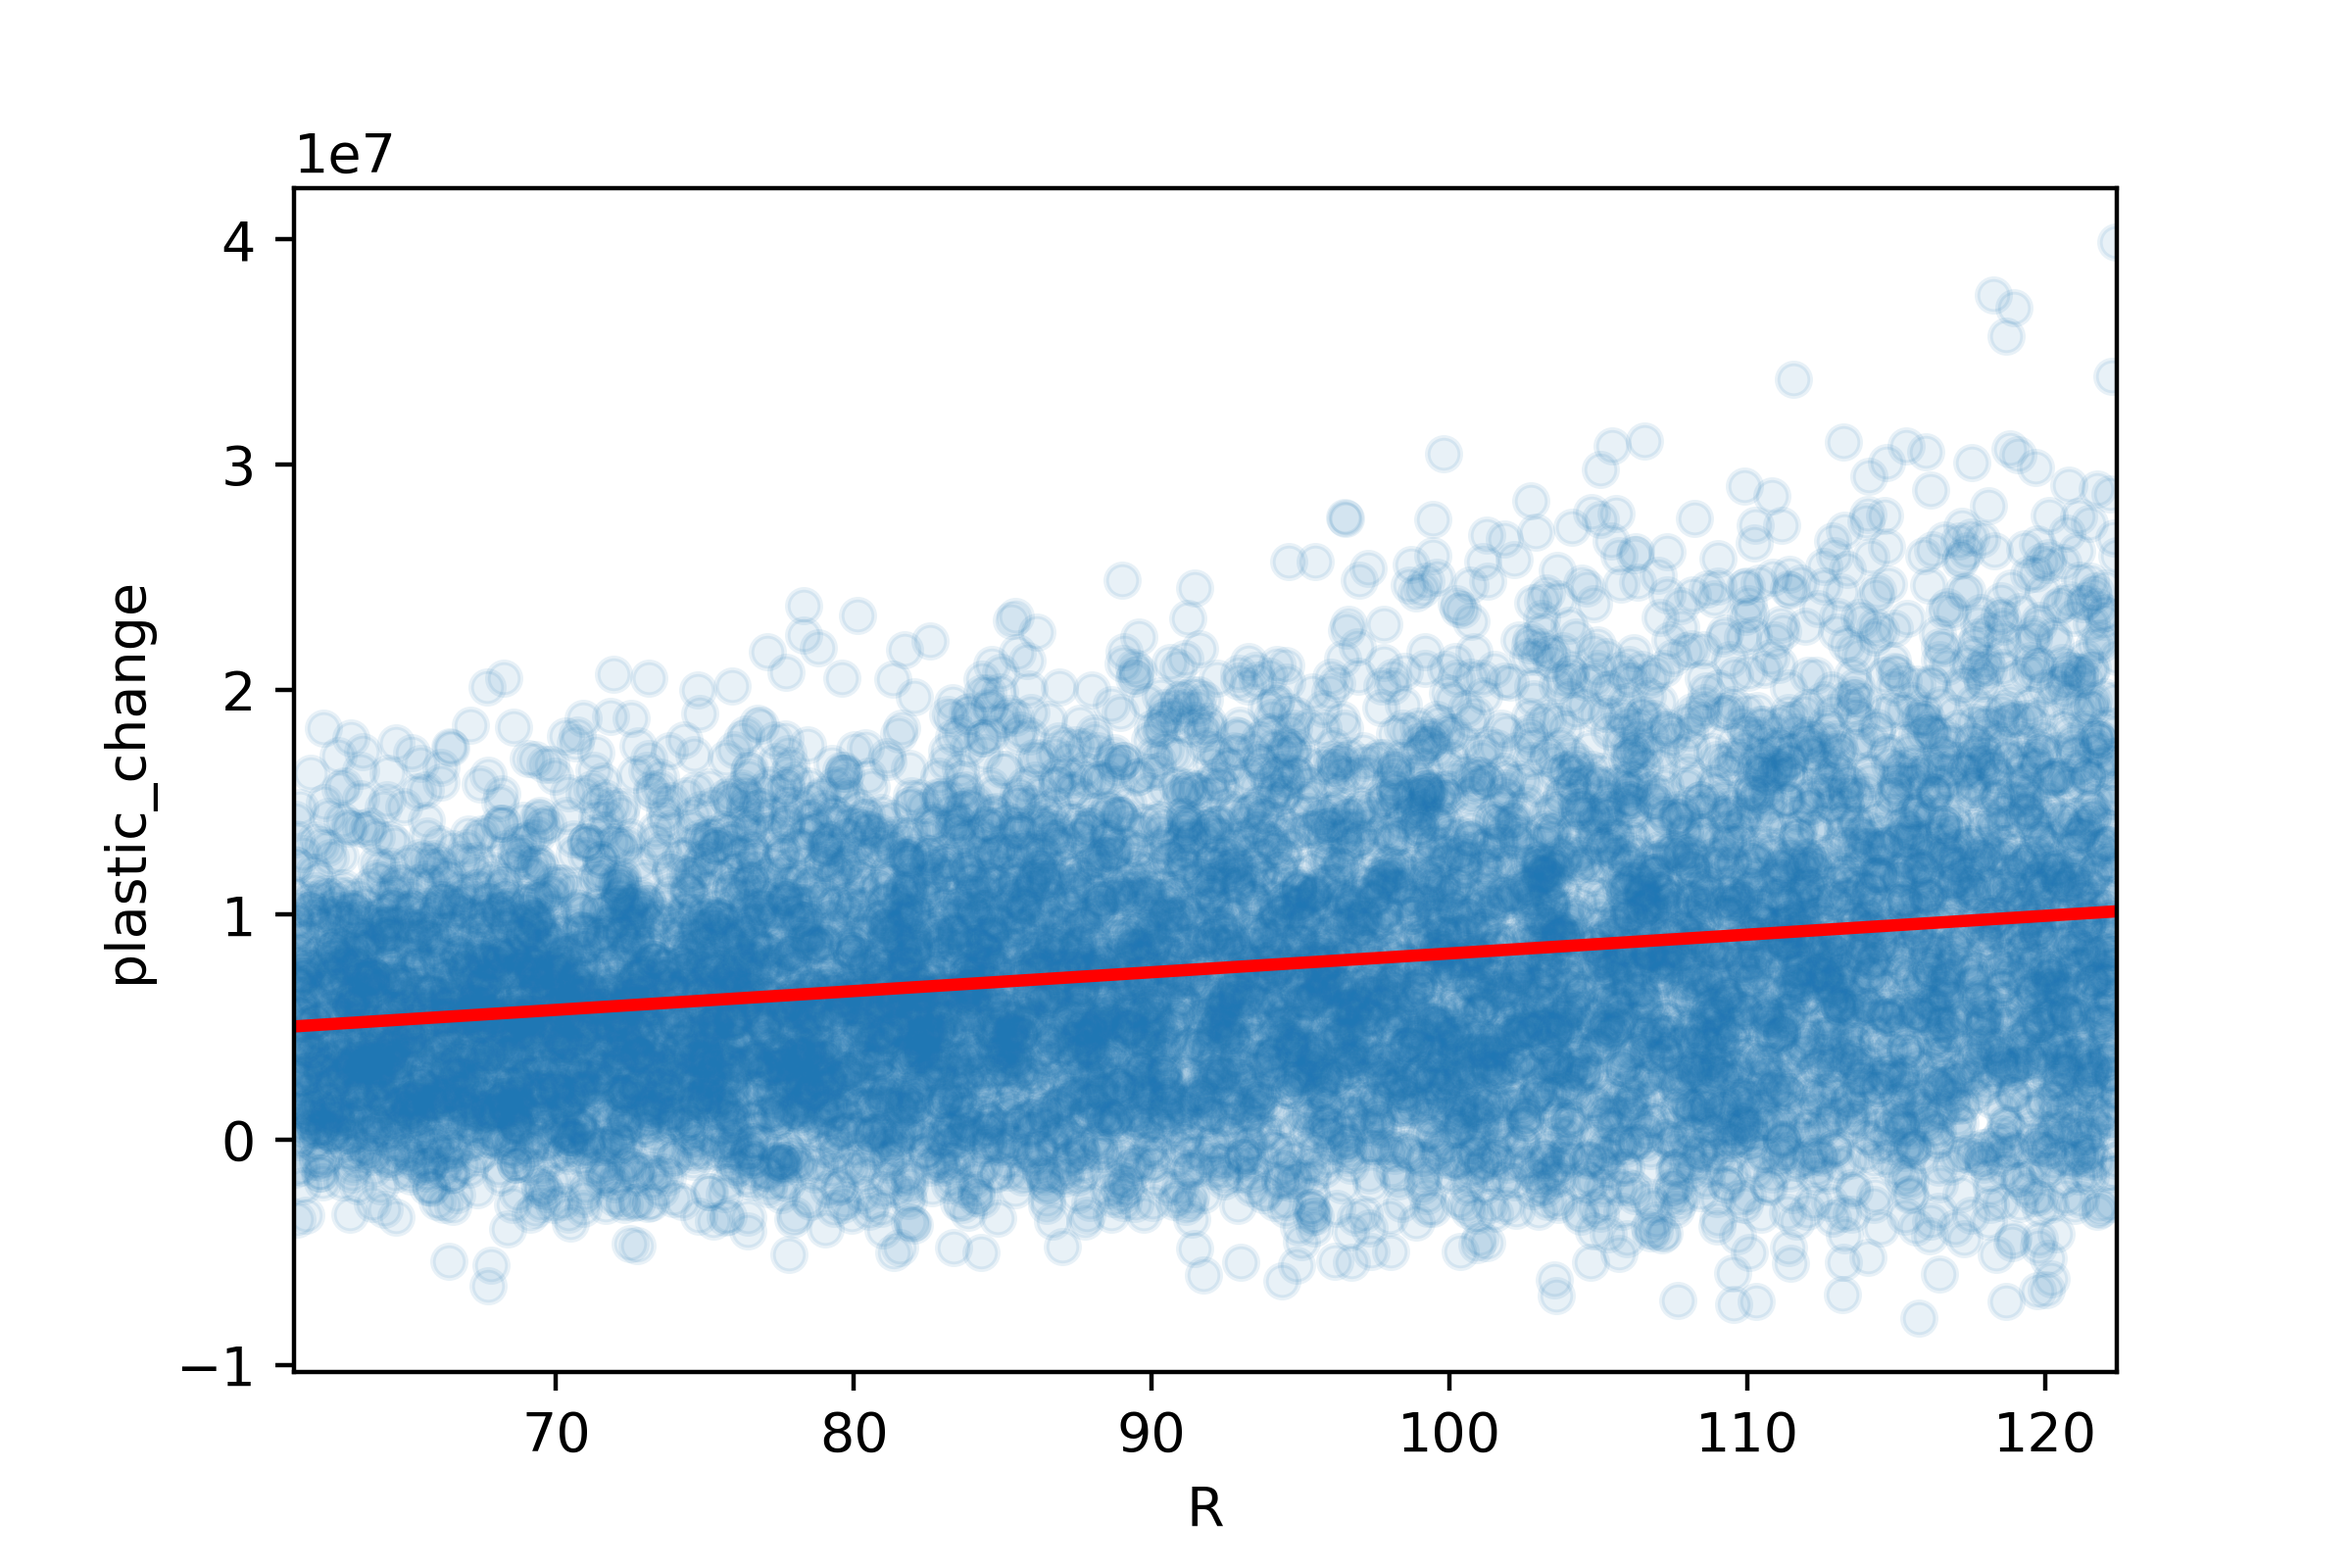
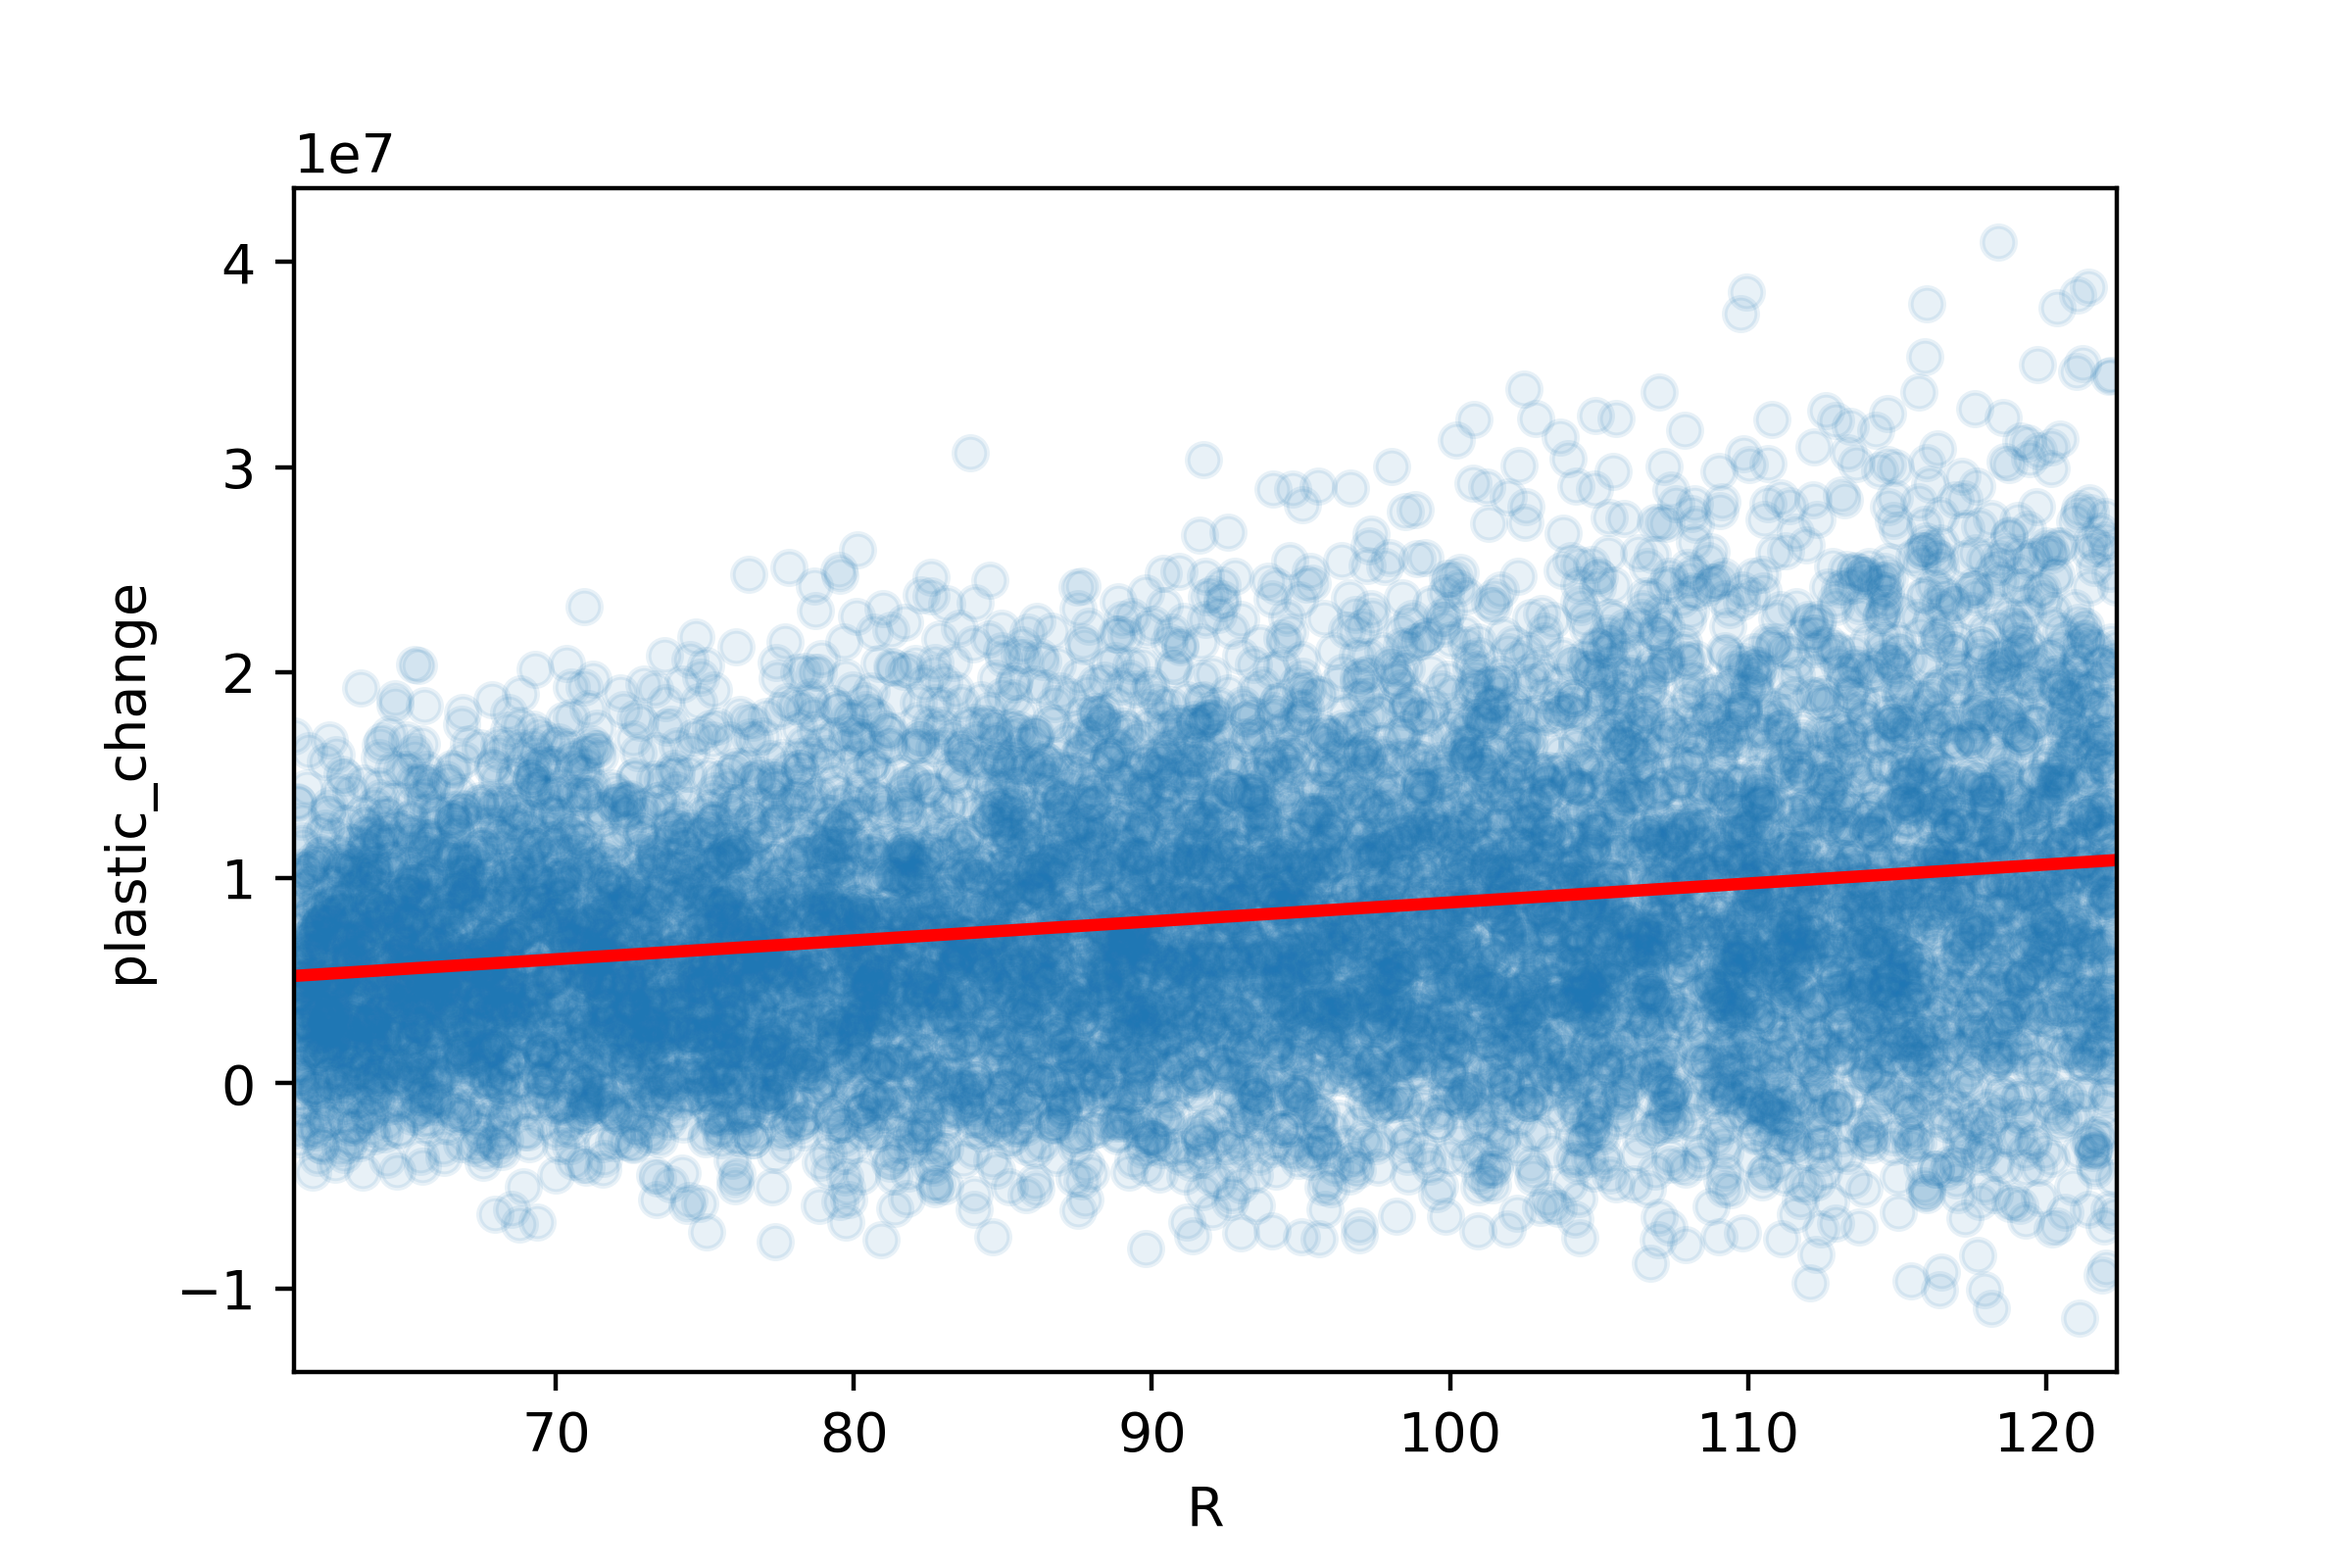
Baseline charts done

diff --git a/baseline_simulations.py b/baseline_simulations.py
@@ -39,17 +39,17 @@ P_TEX_US = 0.1 * 1000
 
 Q_US = trade_flows_total.loc[
     (trade_flows_total["product"] == "plastic bag"),
-    "qty_thousands",
+    "qty_in_thousands",
 ].to_list()
 
 Q_PAP_US = trade_flows_total.loc[
     (trade_flows_total["product"] == "paper bag"),
-    "qty_thousands",
+    "qty_in_thousands",
 ].to_list()
 
 Q_TEX_US = trade_flows_total.loc[
     (trade_flows_total["product"] == "textile bag"),
-    "qty_thousands",
+    "qty_in_thousands",
 ].to_list()
 
 # Set elasticity parameters
@@ -198,6 +198,8 @@ print(results["P_US"].median())
 
 print(results["P1_DOM"].median())
 print(results["P1_EXP"].median())
+print(results["P1_US"].median())
+
 np.average(
     [results["P_PAP_US"], results["P_TEX_US"]],
     weights=[results["Q_PAP_US"], results["Q_TEX_US"]],
@@ -289,195 +291,3 @@ ax = sns.regplot(
 )
 plt.savefig("figs/simulations/plastic_change_R.png", dpi=400)
 plt.clf()
-
-# Three-country model
-## 14 unknowns: P_LIC, P1_LIC, P_MIC, P1_MIC, P_HIC, P1_HIC, P_DOM, P1_DOM, Q_LIC, Q1_LIC, Q_MIC, Q1_MIC, Q_HIC, Q1_HIC
-## Eight parameters: P_US, P1_US, Q_IN, Q1_IN, Q_CN, Q1_CN, Q_DE, Q1_DE, R, C_IN, C1_IN, C_CN, C1_CN, C_DE, C1_DE, e1, e2, eta1, eta2
-
-# Stuff below needs to change to include all countries
-
-Q_IN = trade_flows_country.loc[
-    (
-        (trade_flows_country["Country"] == "India")
-        & (trade_flows_country["product"] == "plastic bag")
-    ),
-    "qty_thousands",
-].to_list()
-
-Q_PAP_IN = trade_flows_country.loc[
-    (
-        (trade_flows_country["Country"] == "India")
-        & (trade_flows_country["product"] == "paper bag")
-    ),
-    "qty_thousands",
-].to_list()
-
-Q_TEX_IN = trade_flows_country.loc[
-    (
-        (trade_flows_country["Country"] == "India")
-        & (trade_flows_country["product"] == "textile bag")
-    ),
-    "qty_thousands",
-].to_list()
-
-Q_CN = trade_flows_country.loc[
-    (
-        (trade_flows_country["Country"] == "China")
-        & (trade_flows_country["product"] == "plastic bag")
-    ),
-    "qty_thousands",
-].to_list()
-
-Q_PAP_CN = trade_flows_country.loc[
-    (
-        (trade_flows_country["Country"] == "China")
-        & (trade_flows_country["product"] == "paper bag")
-    ),
-    "qty_thousands",
-].to_list()
-
-Q_TEX_CN = trade_flows_country.loc[
-    (
-        (trade_flows_country["Country"] == "China")
-        & (trade_flows_country["product"] == "textile bag")
-    ),
-    "qty_thousands",
-].to_list()
-
-Q_DE = trade_flows_country.loc[
-    (
-        (trade_flows_country["Country"] == "Germany")
-        & (trade_flows_country["product"] == "plastic bag")
-    ),
-    "qty_thousands",
-].to_list()
-
-Q_PAP_DE = trade_flows_country.loc[
-    (
-        (trade_flows_country["Country"] == "Germany")
-        & (trade_flows_country["product"] == "paper bag")
-    ),
-    "qty_thousands",
-].to_list()
-
-Q_TEX_DE = trade_flows_country.loc[
-    (
-        (trade_flows_country["Country"] == "Germany")
-        & (trade_flows_country["product"] == "textile bag")
-    ),
-    "qty_thousands",
-].to_list()
-
-## Solution: Three country
-def simulation_threecountry(
-    Q_US,
-    Q_PAP_US,
-    Q_TEX_US,
-    Q_IN,
-    Q_PAP_IN,
-    Q_TEX_IN,
-    Q_CN,
-    Q_PAP_CN,
-    Q_TEX_CN,
-    Q_DE,
-    Q_PAP_DE,
-    Q_TEX_DE,
-    e1,
-    e2,
-    eta1,
-    eta2,
-):
-    Q_US = Q_IN + Q_CN + Q_DE
-    Q1_IN = Q_PAP_IN + Q_TEX_IN
-    Q1_CN = Q_PAP_CN + Q_TEX_CN
-    Q1_DE = Q_PAP_DE + Q_TEX_DE
-    Q1_US = Q1_IN + Q1_CN + Q1_DE
-    P1_US = np.average([P_PAP_US, P_TEX_US], weights=[Q_PAP_US, Q_TEX_US])
-    a = np.array(
-        [
-            [1, 0, 0, 0, 0, 0, 0, 0, -P_US / Q_IN, 0, 0, 0, 0, 0],
-            [0, 1, 0, 0, 0, 0, 0, 0, 0, -P1_US / Q1_IN, 0, 0, 0, 0],
-            [0, 0, 1, 0, 0, 0, 0, 0, 0, 0, -P_US / Q_CN, 0, 0, 0],
-            [0, 0, 0, 1, 0, 0, 0, 0, 0, 0, 0, -P1_US / Q1_CN, 0, 0],
-            [0, 0, 0, 0, 1, 0, 0, 0, 0, 0, 0, 0, -P_US / Q_DE, 0],
-            [0, 0, 0, 0, 0, 1, 0, 0, 0, 0, 0, 0, 0, -P1_US / Q1_DE],
-            [-1, 0, 0, 0, 0, 0, 1, 0, 0, 0, 0, 0, 0, 0],
-            [0, -1, 0, 0, 0, 0, 0, 1, 0, 0, 0, 0, 0, 0],
-            [0, 0, -1, 0, 0, 0, 1, 0, 0, 0, 0, 0, 0, 0],
-            [0, 0, 0, -1, 0, 0, 0, 1, 0, 0, 0, 0, 0, 0],
-            [0, 0, 0, 0, -1, 0, 1, 0, 0, 0, 0, 0, 0, 0],
-            [0, 0, 0, 0, 0, -1, 0, 1, 0, 0, 0, 0, 0, 0],
-            [
-                0,
-                0,
-                0,
-                0,
-                0,
-                0,
-                e1 * Q_US / P_US,
-                eta1 * Q_US / P1_US,
-                -1,
-                0,
-                -1,
-                0,
-                -1,
-                0,
-            ],
-            [
-                0,
-                0,
-                0,
-                0,
-                0,
-                0,
-                eta2 * Q1_US / P_US,
-                e2 * Q1_US / P1_US,
-                0,
-                -1,
-                0,
-                -1,
-                0,
-                -1,
-            ],
-        ]
-    )
-    b = np.array(
-        [
-            0,
-            0,
-            0,
-            0,
-            0,
-            0,
-            R * C_IN,
-            R * C1_IN,
-            R * C_CN,
-            R * C1_CN,
-            R * C_DE,
-            R * C1_DE,
-            (e1 + eta1 - 1) * Q_US,
-            (e2 + eta2 - 1) * Q1_US,
-        ]
-    )
-    x = np.linalg.solve(a, b)
-    return np.concatenate((x, np.array([Q_US, Q1_US, P1_US])), axis=0)
-
-
-simulation_threecountry(
-    Q_US=Q_US[0],
-    Q_PAP_US=Q_PAP_US[0],
-    Q_TEX_US=Q_TEX_US[0],
-    Q_IN=Q_IN[0],
-    Q_PAP_IN=Q_PAP_IN[0],
-    Q_TEX_IN=Q_TEX_IN[0],
-    Q_CN=Q_CN[0],
-    Q_PAP_CN=Q_PAP_CN[0],
-    Q_TEX_CN=Q_TEX_CN[0],
-    Q_DE=Q_DE[0],
-    Q_PAP_DE=Q_PAP_DE[0],
-    Q_TEX_DE=Q_TEX_DE[0],
-    e1=-0.4,
-    e2=-0.4,
-    eta1=0.2,
-    eta2=0.2,
-)
